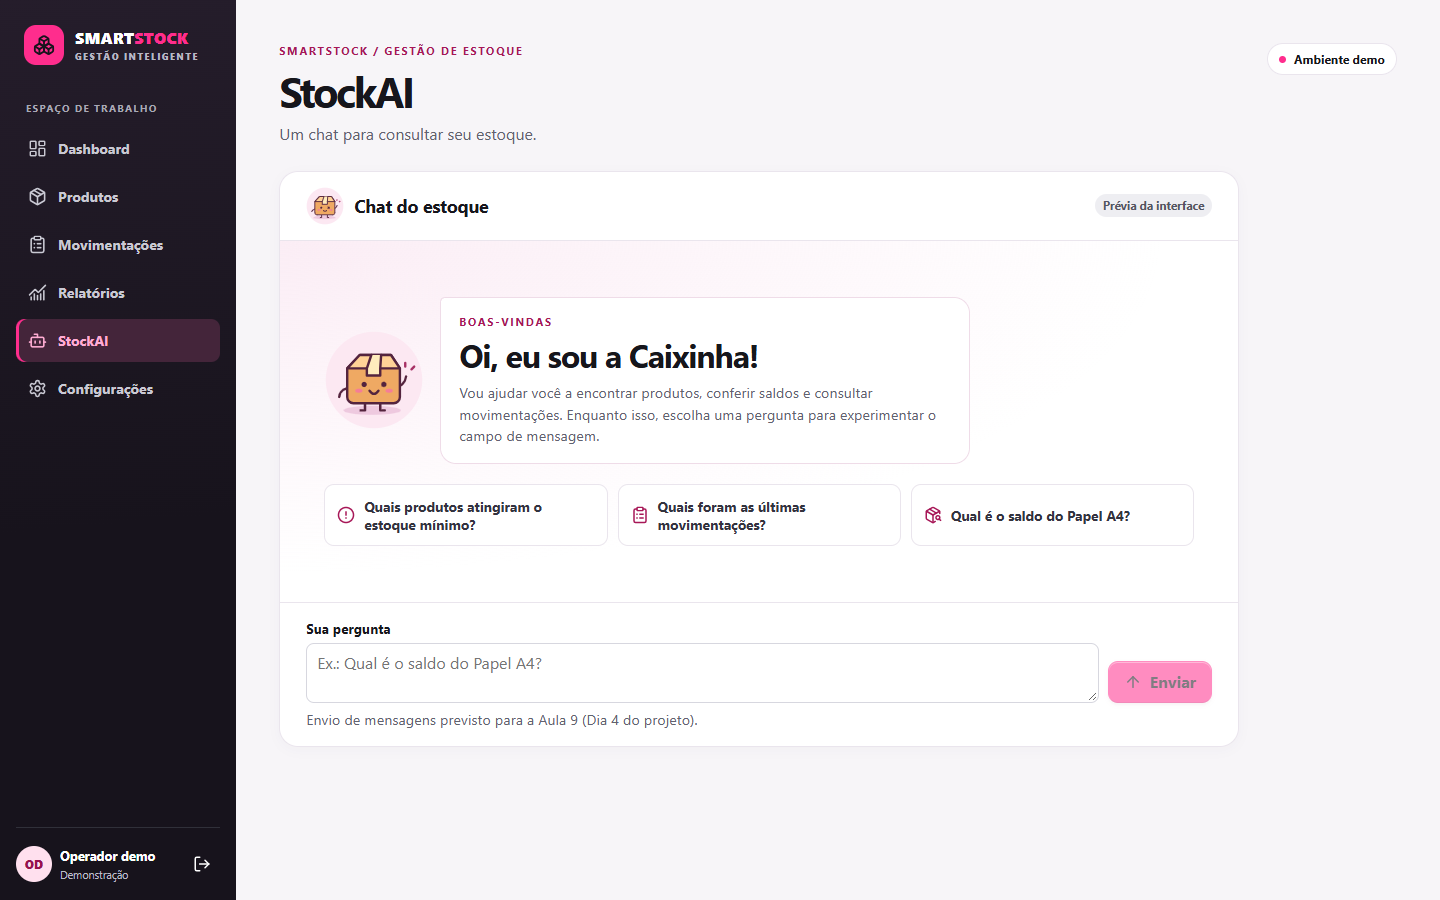
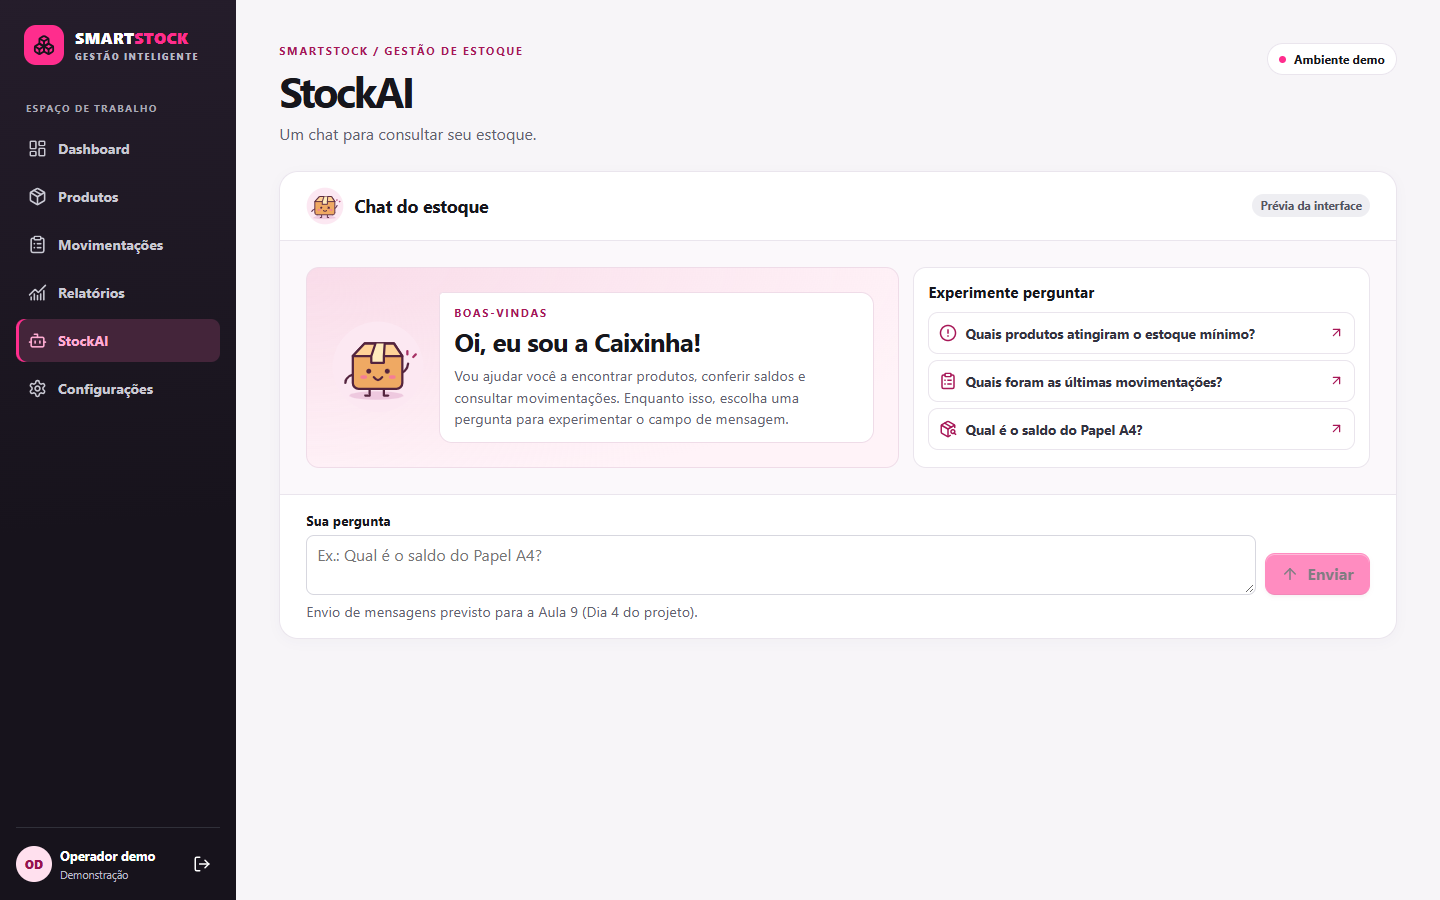
Dia 2: ajustar composição da aba StockAI

diff --git a/src/estilo.css b/src/estilo.css
@@ -255,36 +255,47 @@ dialog::backdrop { background: #12121c88; }
   select option:checked { color: var(--rosa-texto); background: #fceaf3; font-weight: 700; }
 }
 .linha, .perfil { display: flex; align-items: center; justify-content: space-between; gap: 10px; }
-.stockai { max-width: 960px; overflow: hidden; }
+.stockai { overflow: hidden; }
 .stockai-topo {
   display: flex; align-items: center; flex-wrap: wrap; gap: 10px;
   padding: 15px clamp(16px, 3vw, 26px); border-bottom: 1px solid var(--borda);
 }
 .stockai-topo .badge { margin-left: auto; }
 .stockai-conteudo {
-  padding: clamp(26px, 5vw, 56px) clamp(16px, 4vw, 44px);
-  background: radial-gradient(ellipse at top left, #fbedf5, transparent 65%), #fff;
+  display: grid; grid-template-columns: minmax(0, 1.3fr) minmax(0, 1fr); gap: 14px;
+  padding: clamp(14px, 2.5vw, 26px); background: #fbf8fb;
 }
-.stockai-conteudo h3 { margin: 0; font-size: clamp(1.35rem, 4vw, 2rem); letter-spacing: -.035em; }
-.stockai-boas-vindas { display: flex; flex-wrap: wrap; align-items: center; gap: 16px; }
-.stockai-boas-vindas > svg { flex: 0 0 auto; width: clamp(58px, 12vw, 100px); height: auto; }
+.stockai-boas-vindas {
+  display: grid; grid-template-columns: auto minmax(0, 1fr); align-items: center; gap: 14px;
+  padding: clamp(14px, 2.4vw, 24px); border: 1px solid #efdce8; border-radius: 13px;
+  background: radial-gradient(ellipse at top left, #f9dce9, transparent 80%), #fff3f8;
+}
+.stockai-boas-vindas > svg { width: clamp(52px, 8vw, 94px); height: auto; }
+.stockai-balao h3 { margin: 0; font-size: clamp(1.15rem, 2.2vw, 1.65rem); letter-spacing: -.035em; }
 .stockai-balao {
-  flex: 1 1 220px; min-width: 0; max-width: 530px; padding: 16px 18px;
-  border: 1px solid #efdce8; border-radius: 5px 16px 16px 16px; background: #fff;
+  padding: 12px 14px; border: 1px solid #efdce8; border-radius: 4px 13px 13px 13px; background: #fff;
 }
 .stockai-balao .sobretitulo { margin-bottom: 4px; }
+.stockai-atalhos { padding: 14px; border: 1px solid var(--borda); border-radius: 13px; background: #fff; }
+.stockai-atalhos h3 { margin: 0 0 10px; font-size: .95rem; }
 .stockai-sugestoes {
-  display: grid; grid-template-columns: repeat(auto-fit, minmax(min(100%, 185px), 1fr));
-  gap: 10px; padding: 0; margin: 20px 0 0; list-style: none;
+  display: grid; gap: 6px; padding: 0; margin: 0; list-style: none;
 }
 .stockai-sugestoes button {
   width: 100%; height: 100%; justify-content: flex-start; text-align: left;
-  gap: 9px; padding: 12px; white-space: normal; font-size: .86rem;
+  gap: 8px; padding: 8px 10px; white-space: normal; font-size: .85rem;
 }
+.stockai-sugestoes span { flex: 1; }
 .stockai-sugestoes svg { flex: 0 0 auto; color: var(--rosa-texto); }
 .stockai-compositor { padding: 16px clamp(16px, 3vw, 26px); border-top: 1px solid var(--borda); }
 .stockai-campo { display: flex; flex-wrap: wrap; align-items: end; gap: 9px; margin-top: 6px; }
 .stockai-campo textarea { flex: 1 1 190px; }
+@media (max-width: 760px) {
+  .stockai-conteudo { grid-template-columns: minmax(0, 1fr); }
+}
+@media (max-width: 400px) {
+  .stockai-boas-vindas { grid-template-columns: minmax(0, 1fr); gap: 8px; }
+}
 .configuracoes { align-items: start; }
 .perfil {
   justify-content: flex-start; flex-wrap: wrap; margin: 17px 0; overflow-wrap: anywhere;

diff --git a/src/stockai.jsx b/src/stockai.jsx
@@ -1,5 +1,5 @@
 import { useRef, useState } from 'react'
-import { ArrowUp, CircleAlert, ClipboardList, PackageSearch } from 'lucide-react'
+import { ArrowUp, ArrowUpRight, CircleAlert, ClipboardList, PackageSearch } from 'lucide-react'
 
 const sugestoes = [
   { Icone: CircleAlert, pergunta: 'Quais produtos atingiram o estoque mínimo?' },
@@ -45,16 +45,20 @@ export function StockAI() {
           <p className="muted">Vou ajudar você a encontrar produtos, conferir saldos e consultar movimentações. Enquanto isso, escolha uma pergunta para experimentar o campo de mensagem.</p>
         </div>
       </div>
-      <ul className="stockai-sugestoes">
+      <section className="stockai-atalhos" aria-labelledby="stockai-atalhos-titulo">
+        <h3 id="stockai-atalhos-titulo">Experimente perguntar</h3>
+        <ul className="stockai-sugestoes">
         {sugestoes.map(({ Icone, pergunta }) => <li key={pergunta}>
           <button className="secundario" type="button" onClick={() => {
             setRascunho(pergunta)
             campo.current.focus()
           }}>
-            <Icone size={18} aria-hidden="true" /> {pergunta}
+            <Icone size={18} aria-hidden="true" /> <span>{pergunta}</span>
+            <ArrowUpRight size={15} aria-hidden="true" />
           </button>
         </li>)}
-      </ul>
+        </ul>
+      </section>
     </div>
     <div className="stockai-compositor">
       <label htmlFor="stockai-pergunta">Sua pergunta</label>
